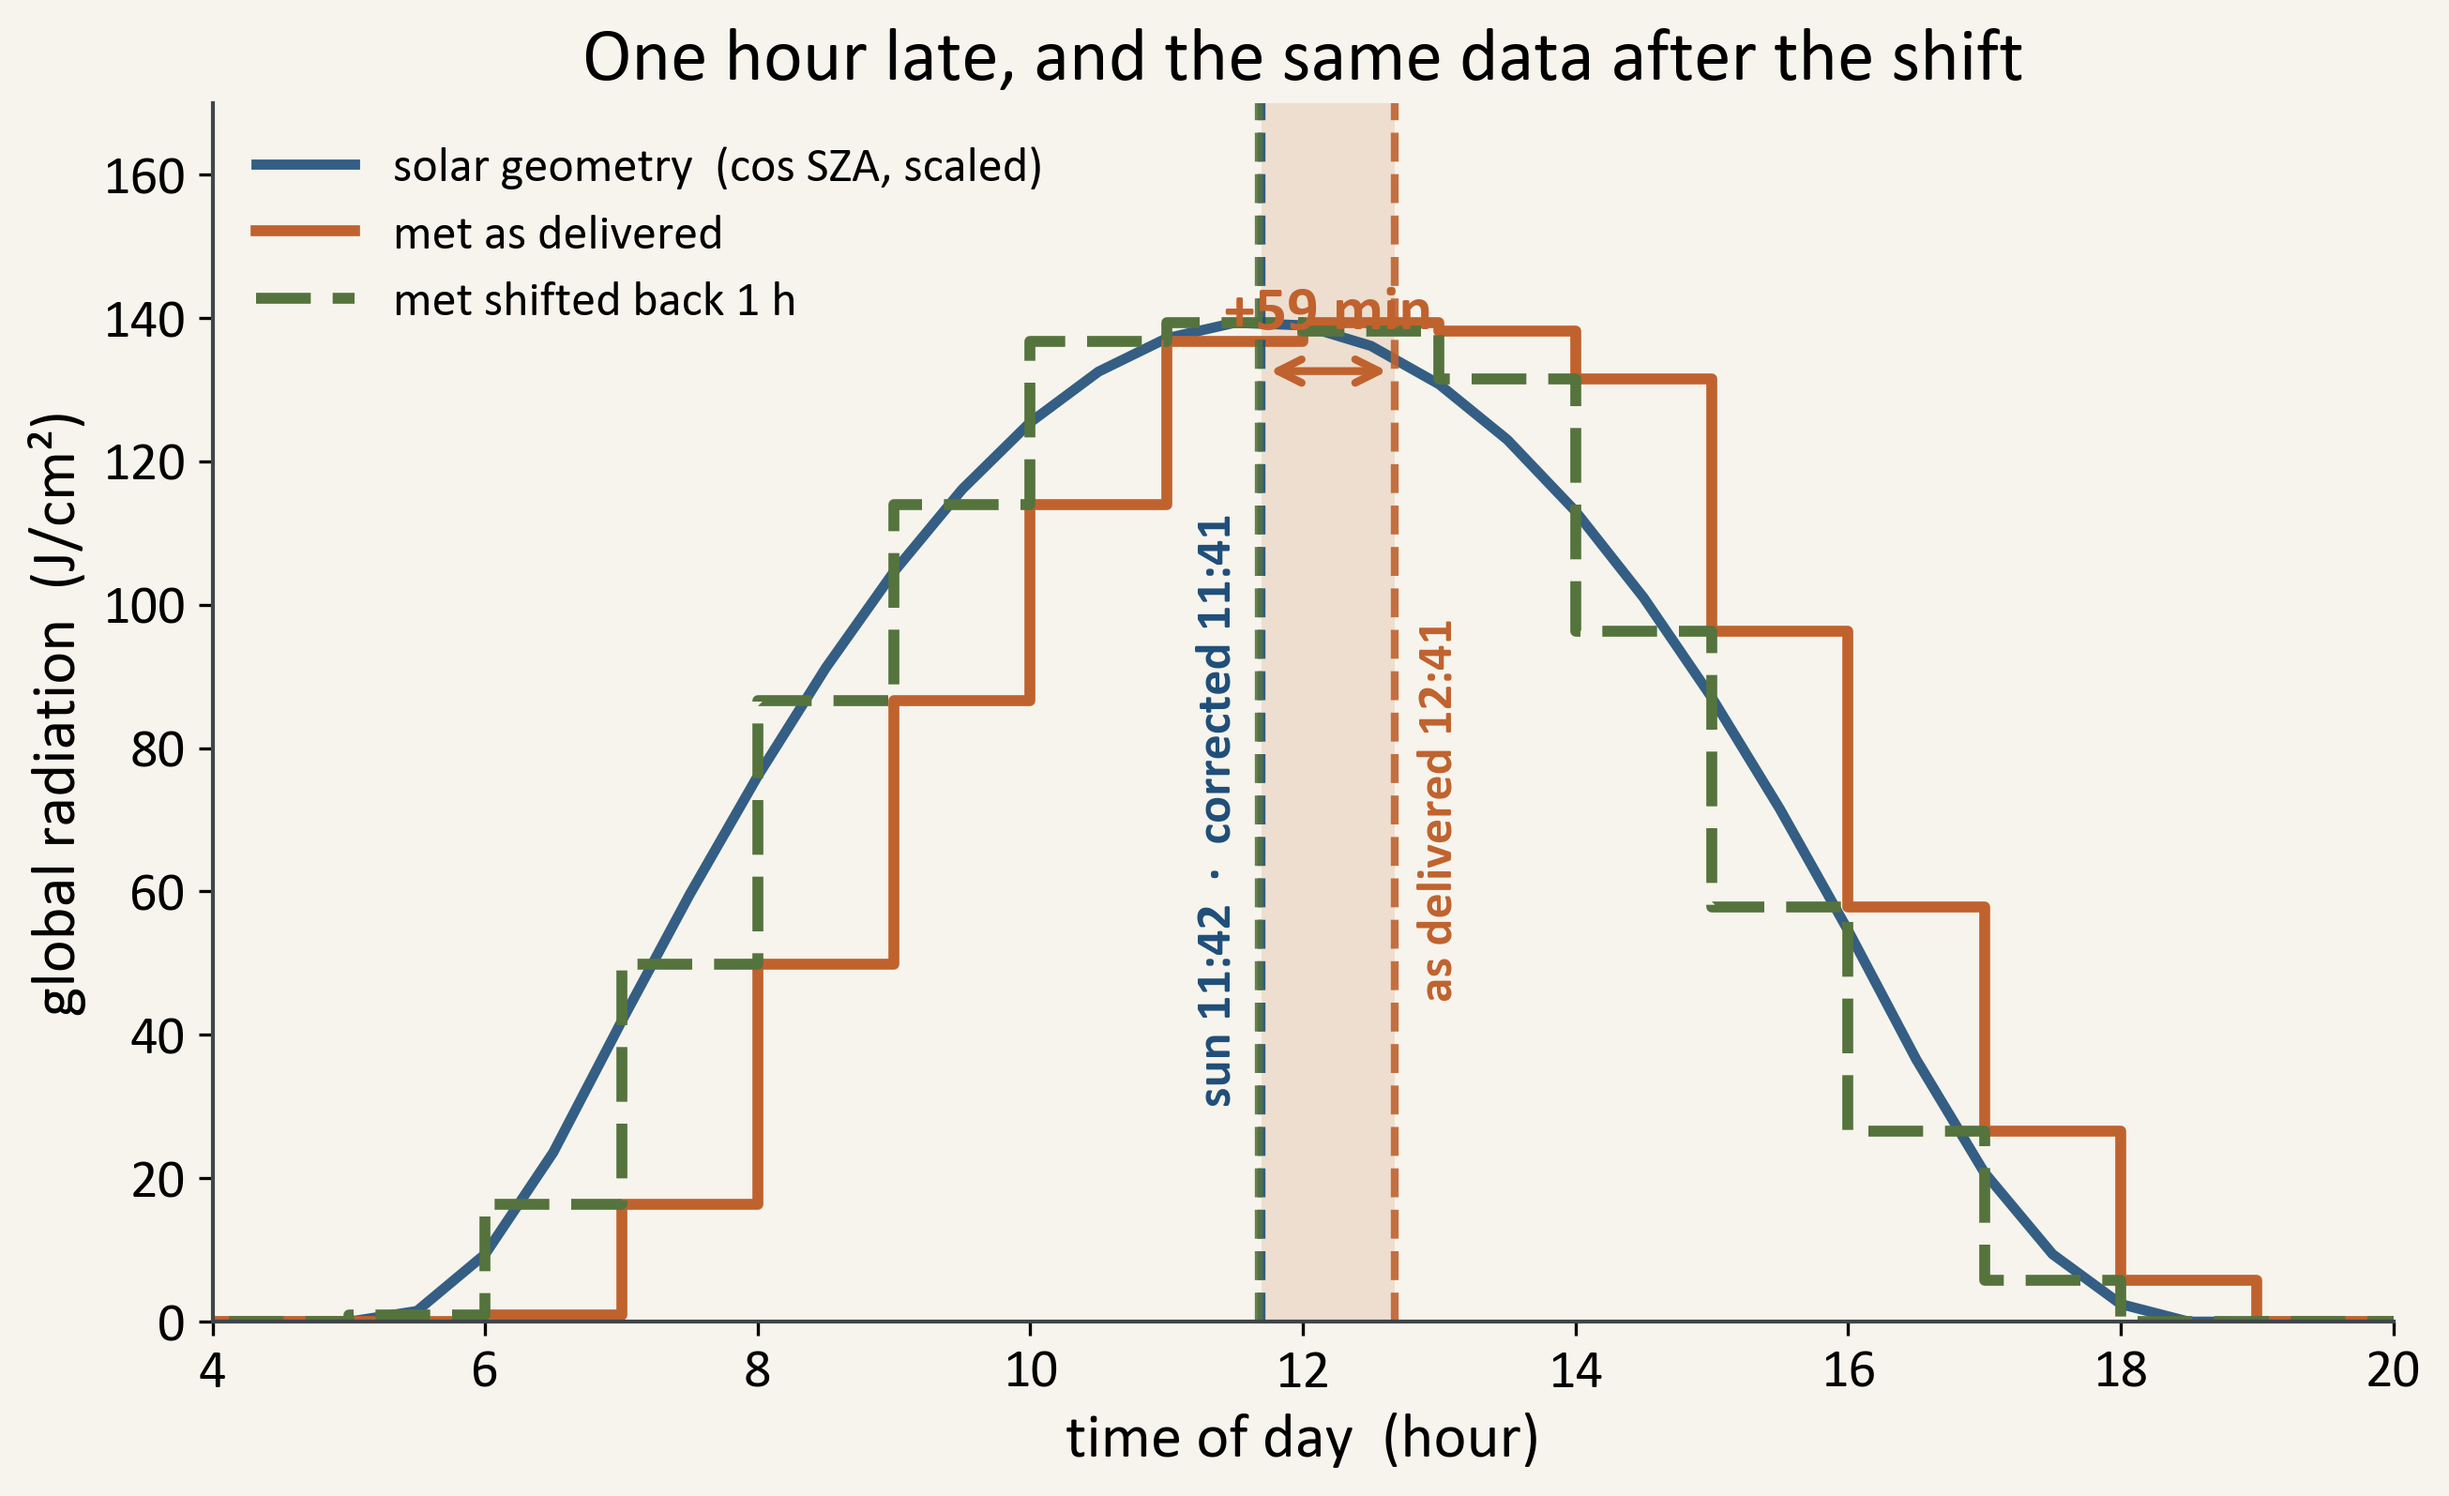
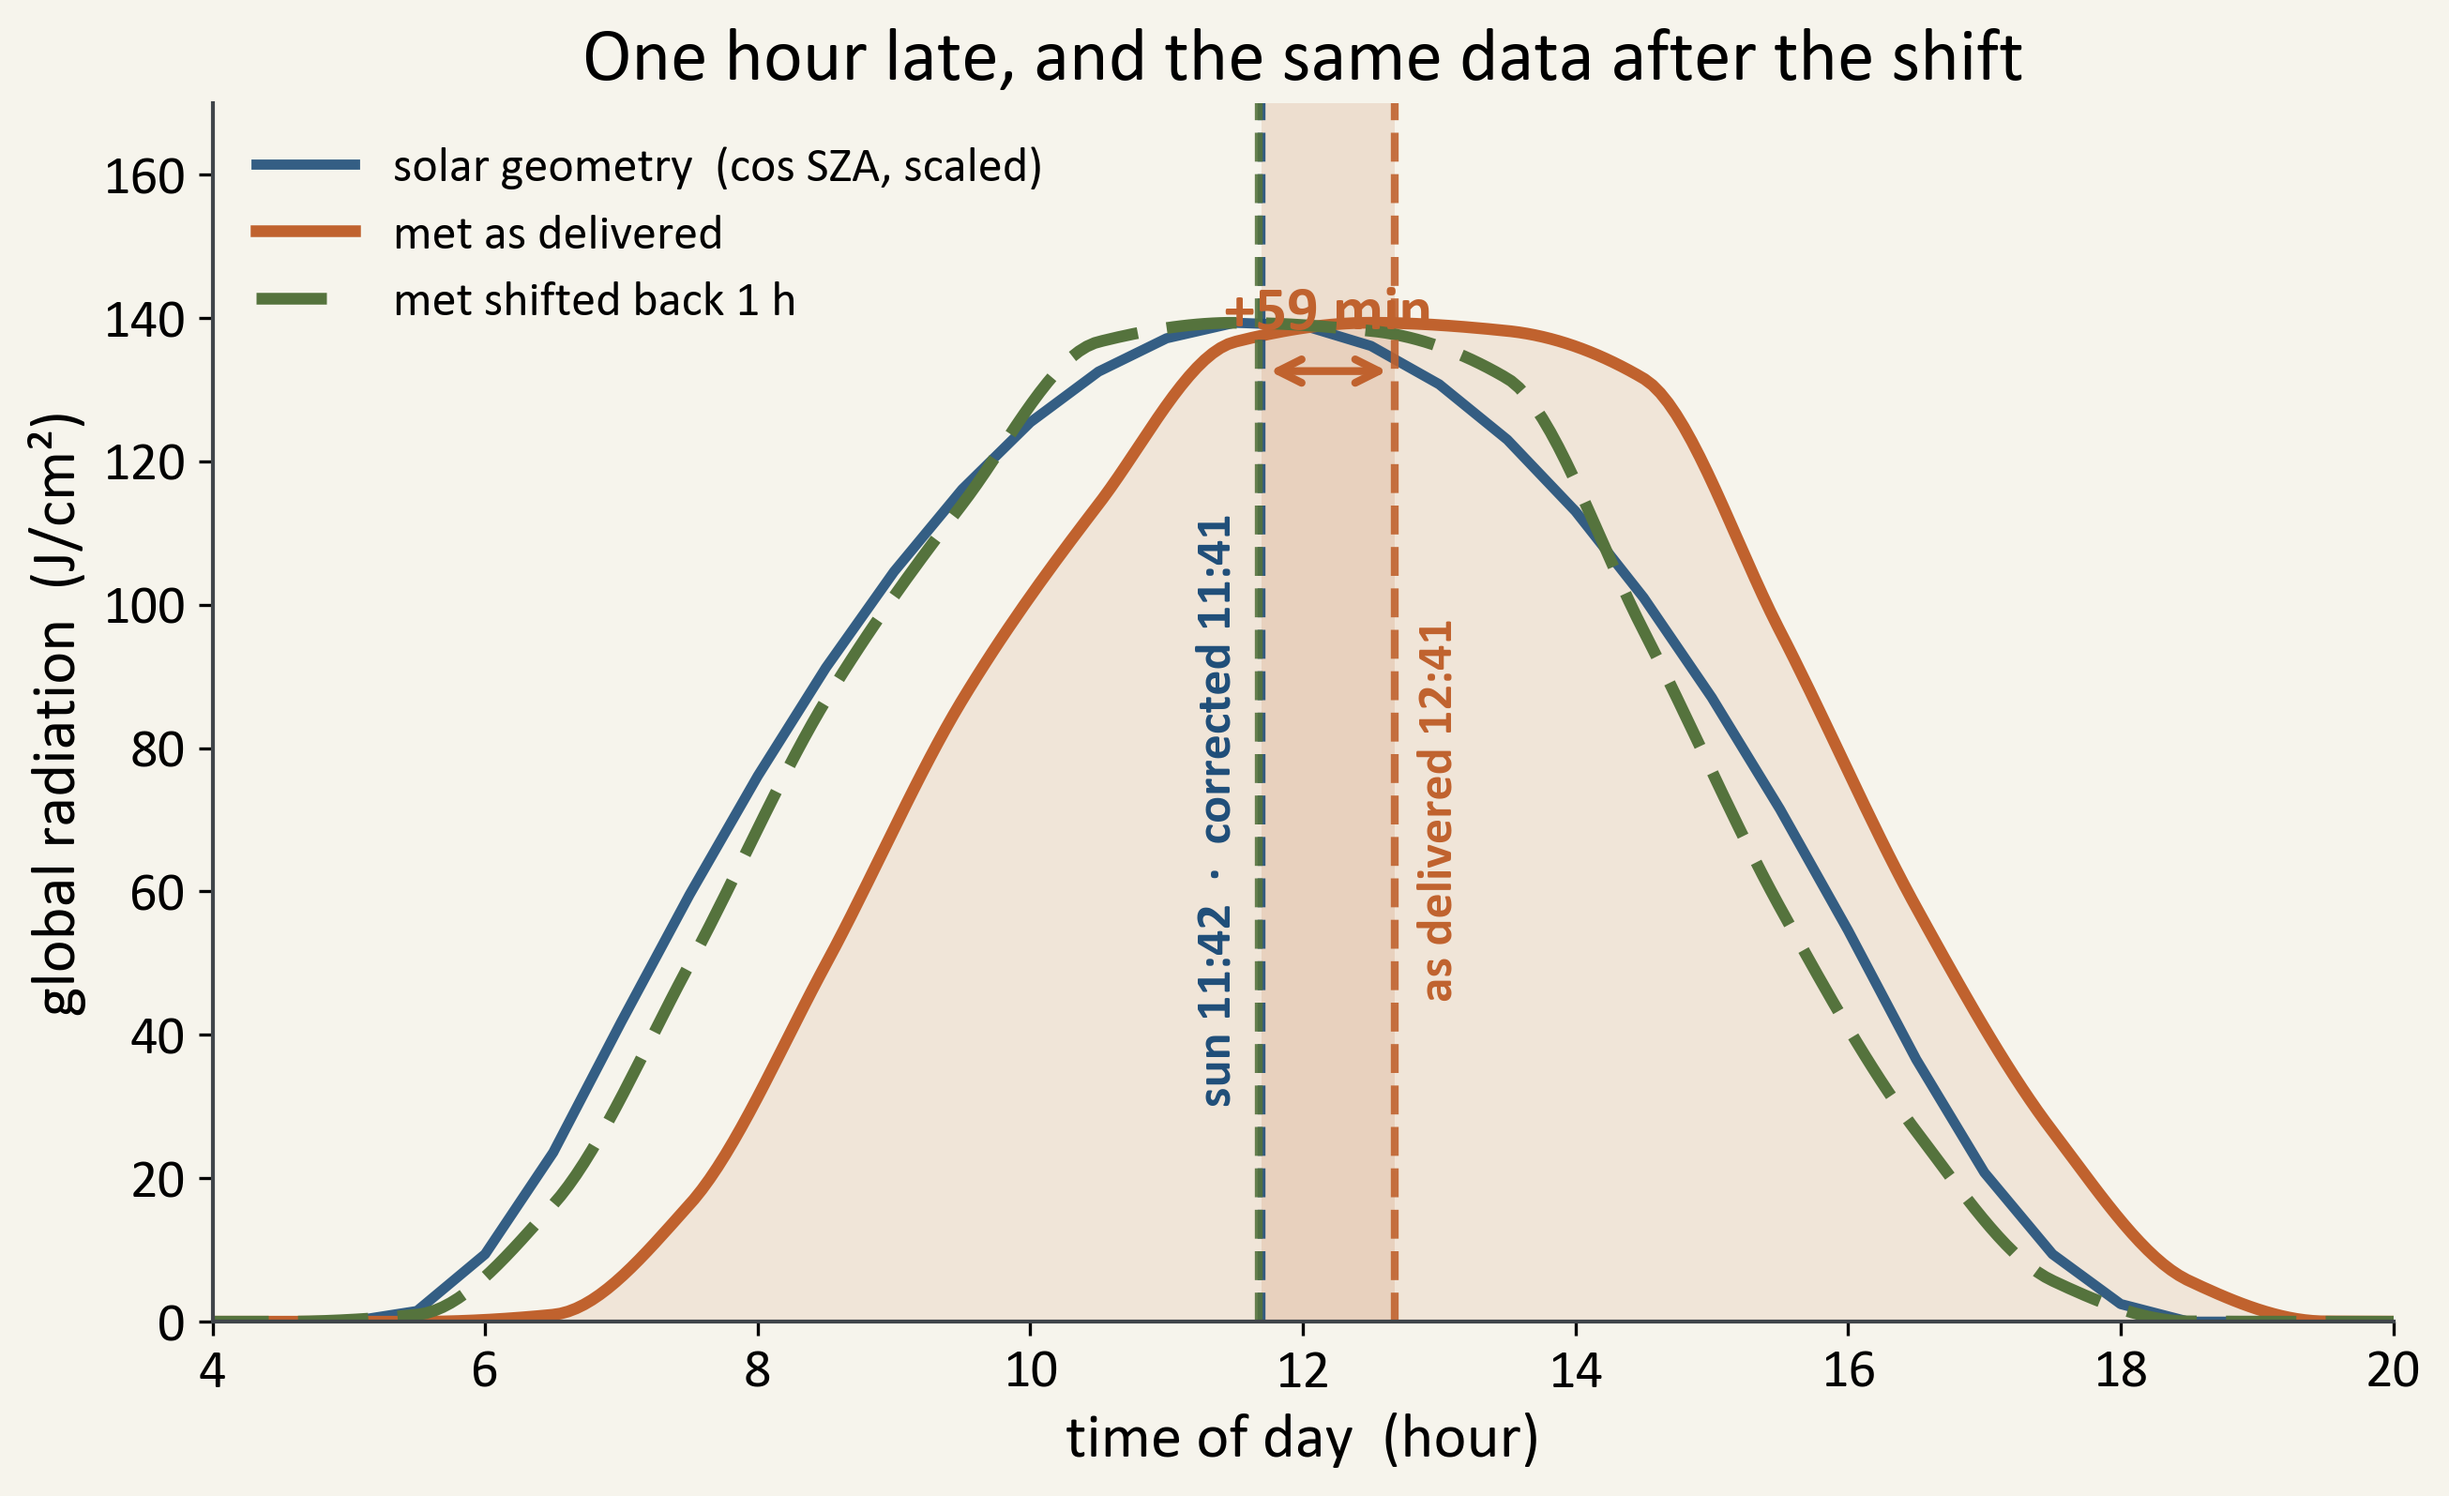
Smooth curves instead of step blocks in the radiation figures
For presentation. The blocks came from the 30-minute step plot, and
because the met is hourly written into both half-hour bins they rendered
as one-hour-wide staircases - honest about the data structure, but noisy
on a projector and not the point of the figure.

The smoothing is not cosmetic-only. It de-duplicates to the hourly
values and places each at the centre of the hour it actually occupies
(label + 0.5 h), then PCHIP-interpolates - shape-preserving, so it
cannot overshoot into negative radiation at dawn and dusk. Checked that
this does not move what the figure is about: the smoothed curve's
centroid is 12:41, identical to the 30-minute grid bin-centre centroid,
to the minute.

Changed region(s): [[0.1551, 0.215, 0.9617, 0.8909], [0.1241, 0.1843, 0.1551, 0.215]]

diff --git a/prep/scripts/make_figures.py b/prep/scripts/make_figures.py
@@ -301,6 +301,33 @@ def fmt(h):
     return f"{int(h):02d}:{round((h % 1) * 60):02d}"
 
 
+def smooth(profile, n=400):
+    """Smooth presentation curve for a duplicated hourly met profile.
+
+    The met values are hourly, written into BOTH half-hour bins, which is why a
+    step plot looks like one-hour blocks. For a slide we want a curve, so:
+      * de-duplicate to the hourly values (the h:00 labels), and
+      * place each at the centre of the hour it actually occupies, label + 0.5 h.
+
+    That placement is not cosmetic - it keeps the picture consistent with the
+    arithmetic. The de-duplicated centroid plus 30 min equals the full-grid
+    bin-centre centroid exactly (12:11 + 0:30 = 12:41), so the smooth curve and
+    the centroid lines describe the same series.
+
+    PCHIP rather than a cubic spline: it is shape-preserving, so it will not
+    overshoot into negative radiation at dawn and dusk.
+    """
+    from scipy.interpolate import PchipInterpolator
+
+    hourly = profile[[float(i).is_integer() for i in profile.index]]
+    x = np.asarray(hourly.index, dtype=float) + 0.5
+    y = np.asarray(hourly.values, dtype=float)
+    ok = np.isfinite(y)
+    x, y = x[ok], y[ok]
+    xs = np.linspace(x.min(), x.max(), n)
+    return xs, PchipInterpolator(x, y)(xs).clip(min=0)
+
+
 # Mean solar-geometry profile, for overlay.
 #
 # NOTE ON THE CONVENTION, because getting this wrong cost a wrong number once:
@@ -339,10 +366,9 @@ def rad_panel(profile, title, note, fname, mark_correct=False):
     geo = geo_prof / geo_prof.max() * profile.max()
     ax.plot(geo.index, geo.values, color=NAVY, lw=2.4, alpha=.85,
             label="solar geometry  (cos SZA, scaled)")
-    ax.step(profile.index, profile.values, where="post", color=col, lw=2.8,
-            label="measured global radiation")
-    ax.fill_between(profile.index, 0, profile.values, step="post", color=col,
-                    alpha=.13)
+    xs, ys = smooth(profile)
+    ax.plot(xs, ys, color=col, lw=3.0, label="measured global radiation")
+    ax.fill_between(xs, 0, ys, color=col, alpha=.13)
 
     top = profile.max() * 1.18
     ax.set_ylim(0, top)
@@ -391,10 +417,12 @@ def rad_panel_both(prof_raw, prof_fixed, fname):
     geo = geo_prof / geo_prof.max() * max(prof_raw.max(), prof_fixed.max())
     ax.plot(geo.index, geo.values, color=NAVY, lw=2.6, alpha=.9,
             label="solar geometry  (cos SZA, scaled)")
-    ax.step(prof_raw.index, prof_raw.values, where="post", color=ORANGE, lw=2.8,
-            label="met as delivered")
-    ax.step(prof_fixed.index, prof_fixed.values, where="post", color=GREEN,
-            lw=2.8, ls=(0, (5, 2)), label="met shifted back 1 h")
+    xr, yr = smooth(prof_raw)
+    xf, yf = smooth(prof_fixed)
+    ax.plot(xr, yr, color=ORANGE, lw=3.0, label="met as delivered")
+    ax.fill_between(xr, 0, yr, color=ORANGE, alpha=.10)
+    ax.plot(xf, yf, color=GREEN, lw=3.0, ls=(0, (6, 2.5)),
+            label="met shifted back 1 h")
 
     c_raw, c_fix = centroid_of(prof_raw), centroid_of(prof_fixed)
     for c, colr in ((geo_centroid, NAVY), (c_raw, ORANGE), (c_fix, GREEN)):
